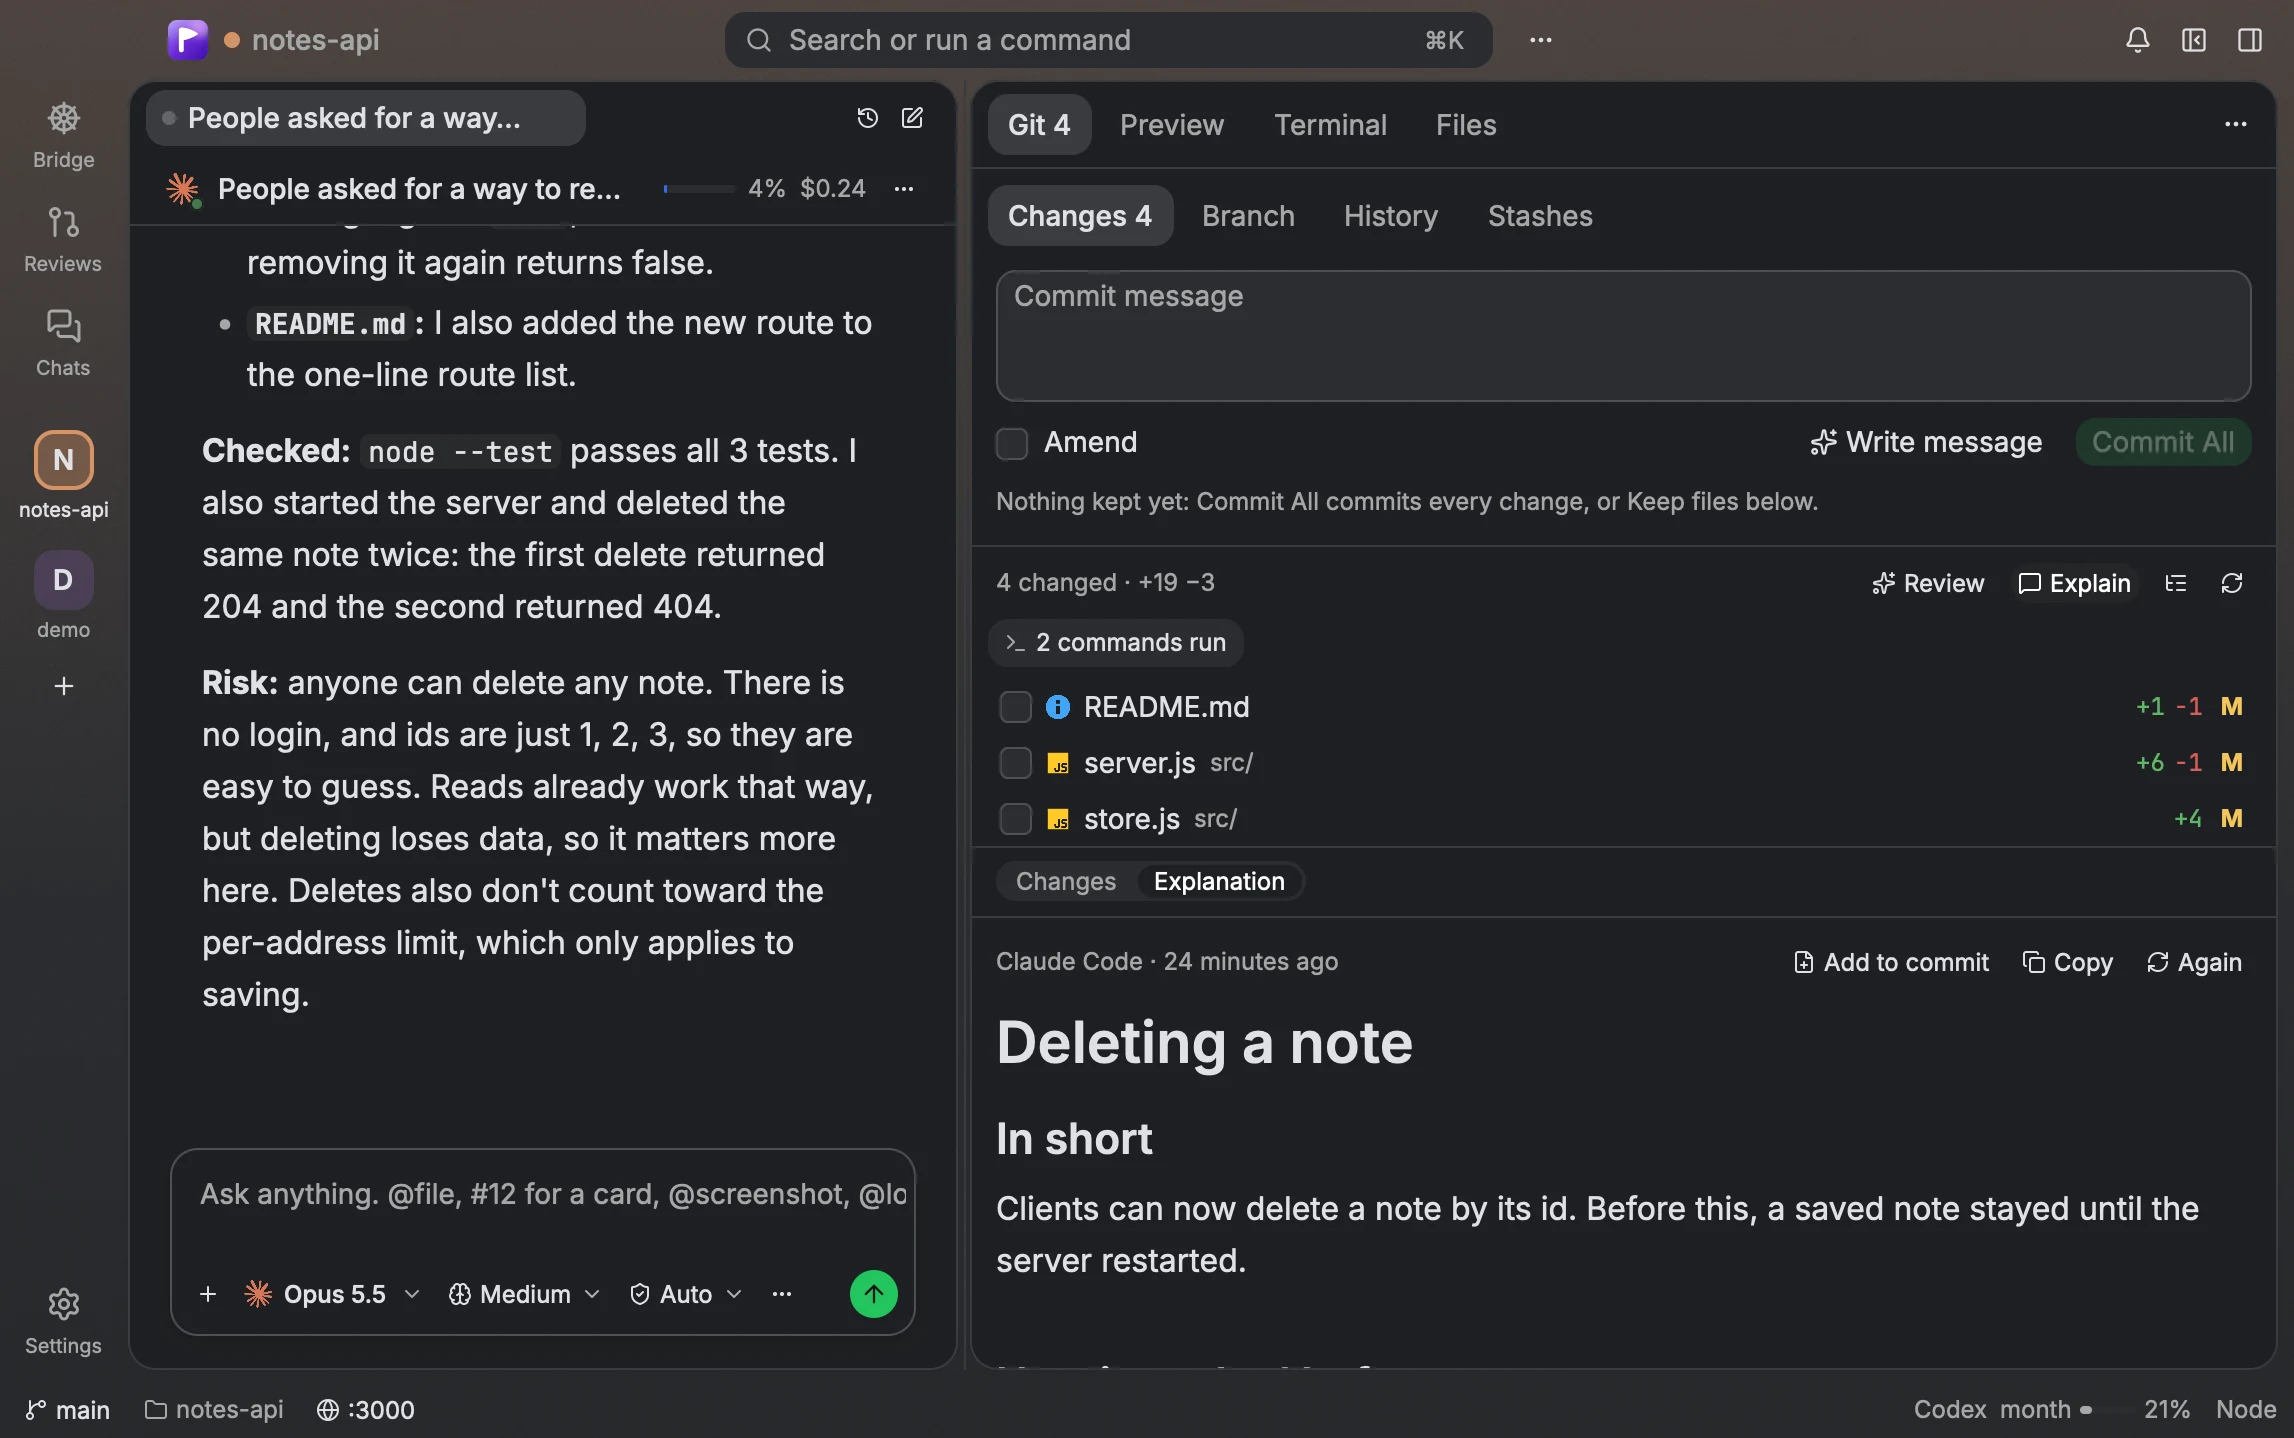
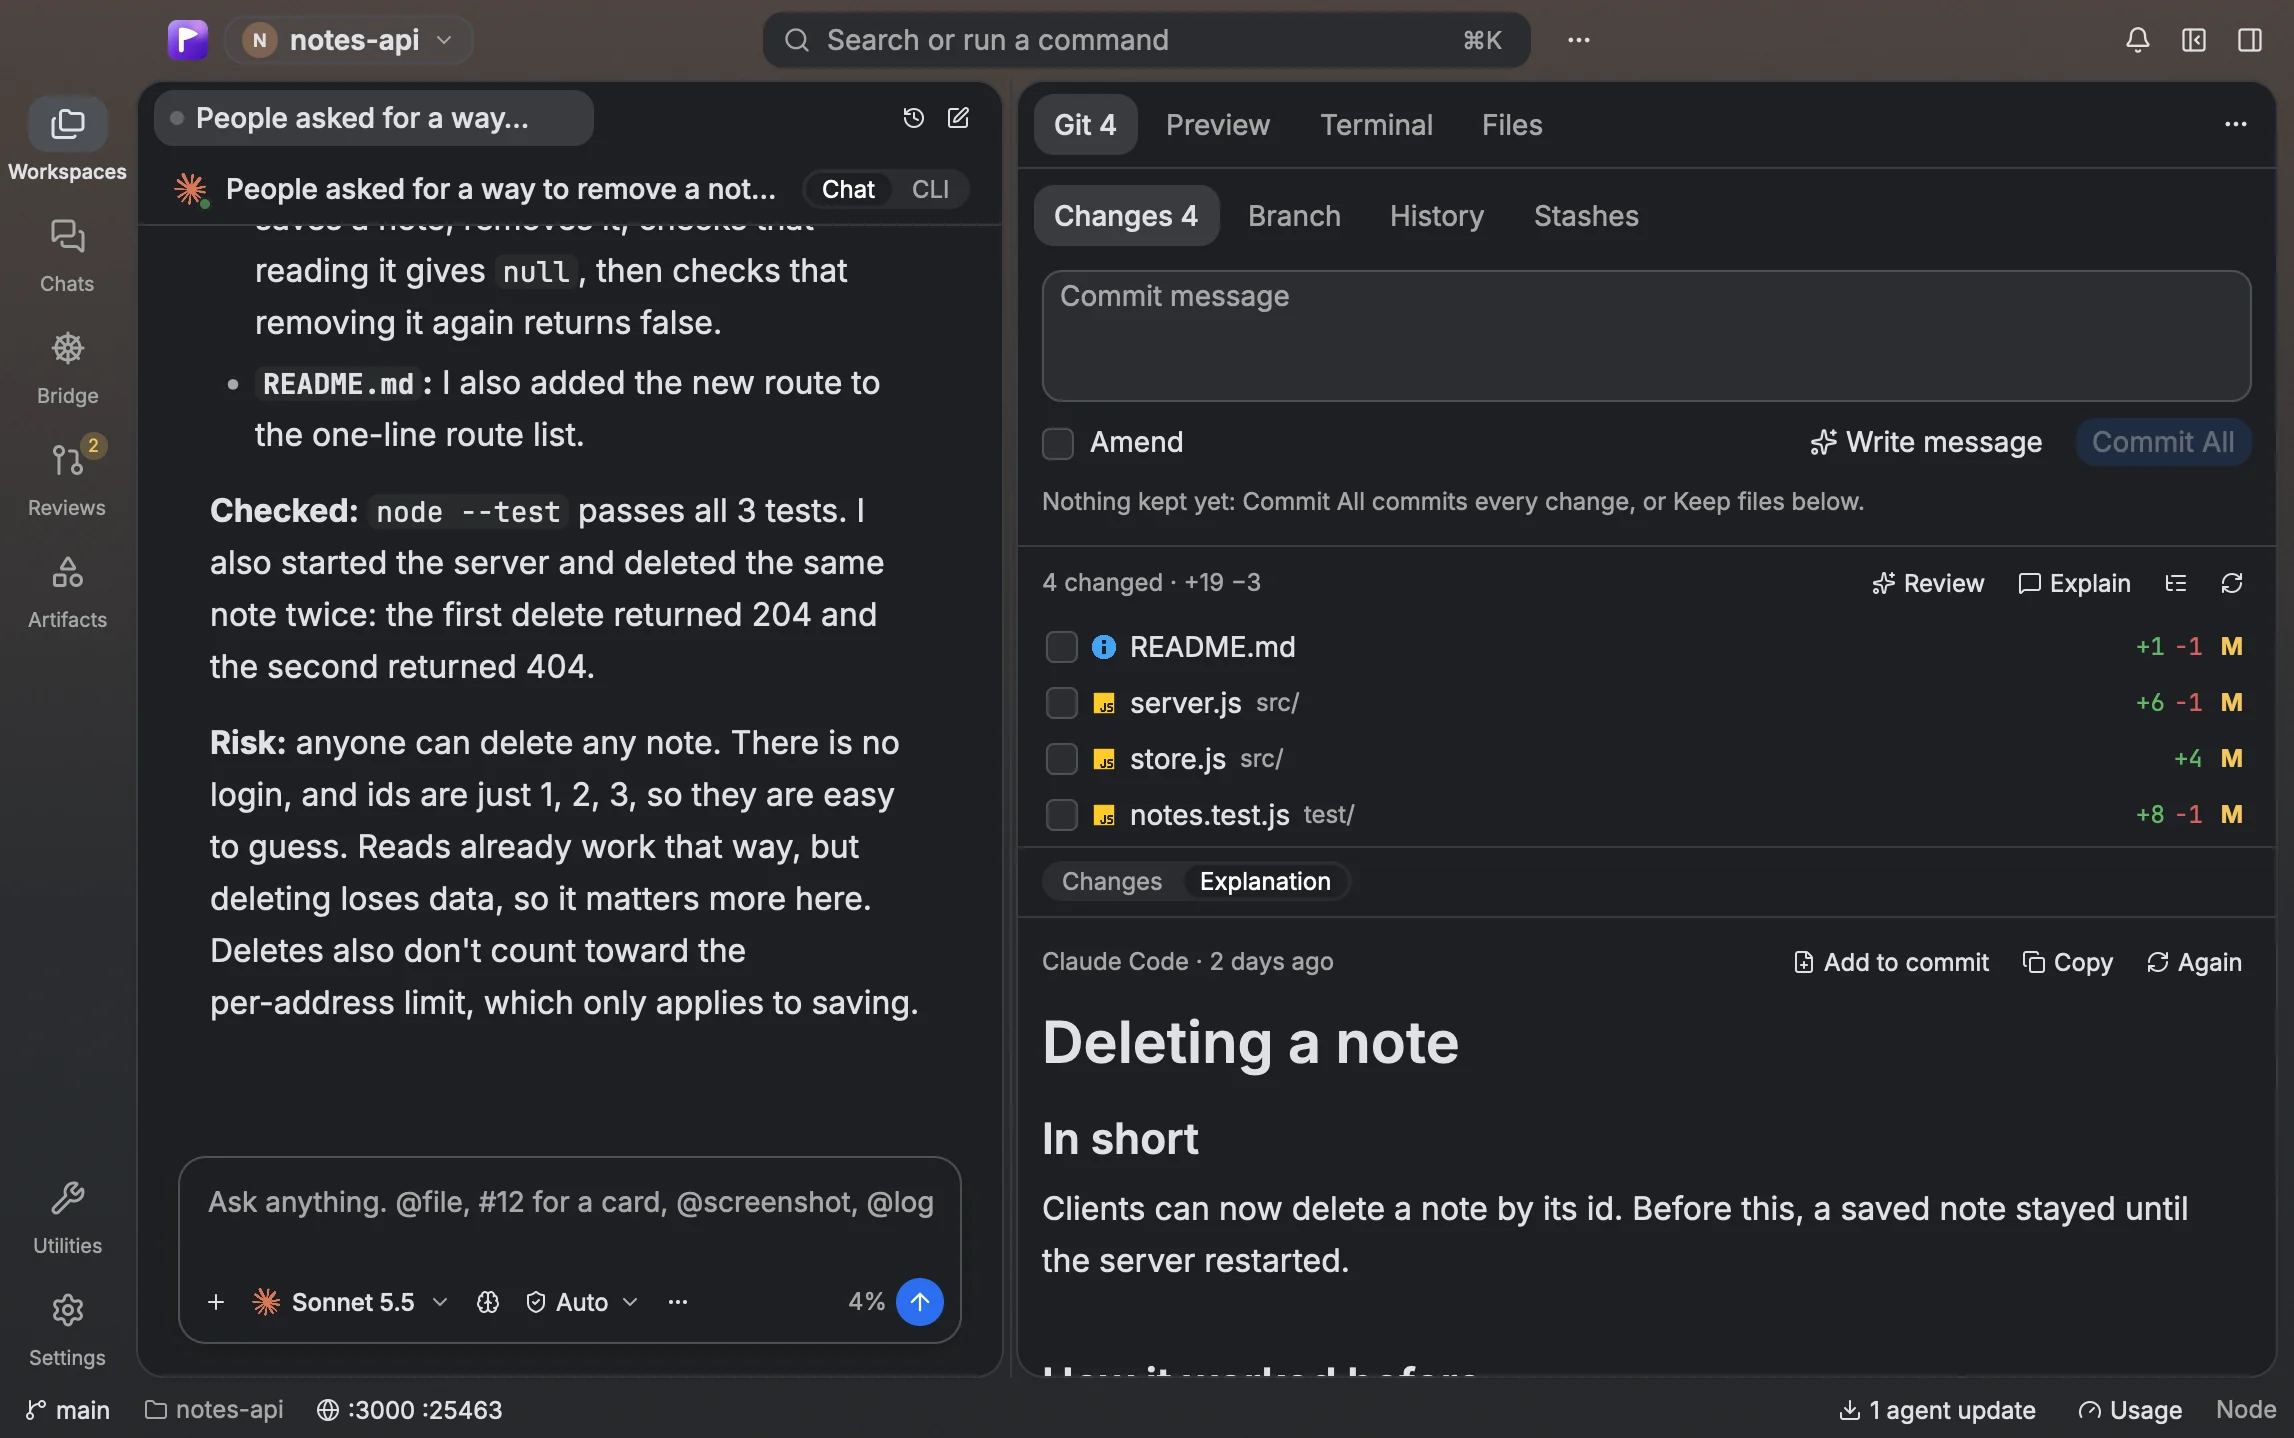
README and website: the app as it is in 0.8.0
README
- The hero picture and the "Why is this here?" picture are taken again
  with the current build: the column of icons (Workspaces, Chats, Bridge,
  Reviews, Artifacts, with Utilities and Settings at its foot), the search
  in the middle of the title bar, usage as one item in the status bar.
  The same scene as before (the notes project, the same chat and
  explanation).
- The section about download mirrors is gone.
- Quick start says the first start shows the welcome tour.

Website
- The drawing of the app at the top has the column of icons as the app
  has it now (it listed Bridge, Reviews, Chats and the workspaces by
  letter).
- Three new tiles under Features: Slides (a deck with its strip of slides
  and what it is exported as), Artifacts (a small app, shared) and
  Utilities. The Studio tile is about pictures and video, with
  compressing a recording.

diff --git a/site/styles.css b/site/styles.css
@@ -479,6 +479,34 @@ main > section { position: relative; padding: clamp(72px, 13vh, 124px) var(--pad
 @keyframes boxed { 0%, 12% { box-shadow: none; } 22%, 90% { box-shadow: 0 0 0 2px var(--accent); } 100% { box-shadow: none; } }
 .mini-shot .draw { position: absolute; right: 10px; top: 22px; width: 62px; height: 2px; background: var(--accent); transform-origin: right center; transform: rotate(-28deg) scaleX(0); animation: draw 6s infinite; }
 .mini-shot .draw::after { content: ""; position: absolute; left: -1px; top: -4px; border: 5px solid transparent; border-right-color: var(--accent); border-left: 0; }
+/* Slides: the strip of slides (each in front in turn), the one shown with its chart, and what it is exported as. */
+.mini-deck { width: min(100%, 330px); display: grid; grid-template-columns: 44px minmax(0, 1fr); gap: 10px; }
+.mini-deck .strip { display: grid; gap: 6px; align-content: start; }
+.mini-deck .strip i { display: block; height: 28px; border-radius: 5px; border: 1.5px solid var(--line-2); background: rgba(255, 255, 255, 0.03); animation: deck-turn 9s infinite; }
+.mini-deck .strip i:nth-child(2) { animation-delay: 3s; } .mini-deck .strip i:nth-child(3) { animation-delay: 6s; }
+.mini-deck .stage { position: relative; display: grid; gap: 10px; align-content: start; min-height: 108px; padding: 12px; border: 1px solid var(--line-2); border-radius: 10px; background: linear-gradient(135deg, var(--accent-soft), rgba(255, 255, 255, 0.03)); }
+.mini-deck .chart, .mini-app .chart { display: flex; align-items: flex-end; gap: 6px; height: 44px; }
+.mini-deck .chart { width: 46%; }
+.mini-deck .chart i, .mini-app .chart i { flex: 1; border-radius: 3px 3px 0 0; background: var(--accent); opacity: 0.8; animation: bars 6s infinite; }
+.mini-deck .chart i:nth-child(1), .mini-app .chart i:nth-child(1) { --a: 25%; --b: 45%; } .mini-deck .chart i:nth-child(2), .mini-app .chart i:nth-child(2) { --a: 40%; --b: 60%; }
+.mini-deck .chart i:nth-child(3), .mini-app .chart i:nth-child(3) { --a: 35%; --b: 75%; } .mini-deck .chart i:nth-child(4), .mini-app .chart i:nth-child(4) { --a: 60%; --b: 85%; }
+.mini-deck .chart i:nth-child(5) { --a: 70%; --b: 100%; }
+.mini-deck .out { position: absolute; right: 9px; bottom: 9px; display: flex; gap: 5px; }
+@keyframes deck-turn { 0%, 30% { border-color: var(--accent); background: var(--accent-soft); } 34%, 100% { border-color: var(--line-2); background: rgba(255, 255, 255, 0.03); } }
+/* An artifact: a small app in a window of its own, in use by others. */
+.mini-app { position: relative; width: min(100%, 200px); border: 1px solid var(--line-2); border-radius: 10px; overflow: hidden; background: rgba(255, 255, 255, 0.03); }
+.mini-app .addr { display: block; padding: 7px 9px; border-bottom: 1px solid var(--line); }
+.mini-app .body { display: grid; grid-template-columns: auto minmax(0, 1fr); gap: 12px; align-items: end; padding: 12px 10px 10px; }
+.mini-app .num { font: 600 18px/1 var(--sans); }
+.mini-app .live { position: absolute; top: 5px; right: 6px; display: inline-flex; align-items: center; gap: 4px; padding: 1px 7px; border-radius: 999px; background: color-mix(in srgb, var(--green) 20%, transparent); color: var(--green); font-size: 10px; font-weight: 600; }
+.mini-app .live i { width: 6px; height: 6px; border-radius: 50%; background: var(--green); animation: live 2.4s infinite; }
+@keyframes live { 0%, 100% { opacity: 1; } 50% { opacity: 0.3; } }
+/* Utilities: the tools by name, one in use after another. */
+.mini-tools { display: flex; flex-wrap: wrap; justify-content: center; gap: 6px; max-width: 190px; }
+.mini-tools span { padding: 3px 9px; border-radius: 7px; background: var(--fill); font: 600 10.5px var(--mono); animation: tool 9s infinite; }
+.mini-tools span:nth-child(2) { animation-delay: 1.5s; } .mini-tools span:nth-child(3) { animation-delay: 3s; } .mini-tools span:nth-child(4) { animation-delay: 4.5s; }
+.mini-tools span:nth-child(5) { animation-delay: 6s; } .mini-tools span:nth-child(6) { animation-delay: 7.5s; }
+@keyframes tool { 0%, 14% { background: var(--accent); color: var(--accent-ink); } 18%, 100% { background: var(--fill); color: inherit; } }
 @keyframes draw { 0%, 16% { transform: rotate(-28deg) scaleX(0); } 28%, 90% { transform: rotate(-28deg) scaleX(1); } 100% { transform: rotate(-28deg) scaleX(0); } }
 
 /* Make it yours: the page takes the colour. */
@@ -590,13 +618,9 @@ em.add { color: var(--green); } em.del { color: var(--red); }
 /* The app's window: the column of icons, the chat, the result pane. */
 .app { display: grid; grid-template-columns: 66px minmax(0, 1fr) minmax(0, 1.15fr); min-height: 380px; }
 .rail { display: flex; flex-direction: column; align-items: center; gap: 4px; padding: 10px 4px; background: rgba(255, 255, 255, 0.03); border-right: 1px solid var(--line); }
-.rail hr { width: 22px; border: none; border-top: 1px solid var(--line-2); margin: 4px 0; }
 .r { position: relative; display: grid; justify-items: center; gap: 3px; width: 56px; padding: 6px 0; border-radius: 8px; font-size: 9.5px; color: var(--muted); }
 .r .ico { font-size: 16px; }
 .r.on { background: var(--fill); color: var(--ink); }
-.badge { display: grid; place-items: center; width: 24px; height: 24px; border-radius: 7px; font-size: 11px; font-weight: 650; }
-.badge.b1 { background: rgba(240, 111, 168, 0.3); outline: 1.5px solid #f06fa8; }
-.badge.b2 { background: rgba(142, 203, 255, 0.26); }
 .count { position: absolute; top: 2px; right: 6px; min-width: 15px; padding: 0 3px; border-radius: 999px; background: var(--amber); color: #2a1a00; font-size: 9px; font-weight: 700; text-align: center; }
 .chat { display: flex; flex-direction: column; min-width: 0; border-right: 1px solid var(--line); }
 .tabs { display: flex; gap: 6px; padding: 8px 10px; border-bottom: 1px solid var(--line); overflow: hidden; }
@@ -707,6 +731,9 @@ em.add { color: var(--green); } em.del { color: var(--red); }
   .mini-findings .tick.a, .mini-findings .tick.b { background: var(--accent); border-color: var(--accent); }
   .mini-shot .draw { transform: rotate(-28deg); }
   .mini-night li { opacity: 1; }
+  .mini-deck .strip i:first-child { border-color: var(--accent); background: var(--accent-soft); }
+  .mini-tools span:nth-child(2) { background: var(--accent); color: var(--accent-ink); }
+  .mini-deck .chart i, .mini-app .chart i { height: var(--b); }
 }
 @media (max-width: 1000px) {
   main > section { padding-block: 84px; }

diff --git a/site/index.html b/site/index.html
@@ -34,6 +34,7 @@
     <symbol id="i-undo" viewBox="0 0 24 24"><path d="M8 5 4 9l4 4"/><path d="M4 9h10a5 5 0 0 1 0 10h-3"/></symbol>
     <symbol id="i-moon" viewBox="0 0 24 24"><path d="M19.5 14.5A8 8 0 0 1 9.5 4.5a8 8 0 1 0 10 10z"/></symbol>
     <symbol id="i-server" viewBox="0 0 24 24"><rect x="3.5" y="4" width="17" height="7" rx="1.5"/><rect x="3.5" y="13" width="17" height="7" rx="1.5"/><path d="M7 7.5h.01M7 16.5h.01"/></symbol>
+    <symbol id="i-shapes" viewBox="0 0 24 24"><path d="M12 3.5l4 6.5H8z"/><rect x="4" y="13.5" width="6.5" height="6.5" rx="1"/><circle cx="17" cy="16.75" r="3.25"/></symbol>
     <symbol id="i-folder" viewBox="0 0 24 24"><path d="M3 7a1.5 1.5 0 0 1 1.5-1.5h4l2 2.5h9A1.5 1.5 0 0 1 21 9.5v8A1.5 1.5 0 0 1 19.5 19h-15A1.5 1.5 0 0 1 3 17.5z"/></symbol>
   </svg>
 
@@ -89,12 +90,11 @@
             <div class="win-bar"><i></i><i></i><i></i><span class="win-title">tidewatch</span><span class="win-search"><svg class="ico"><use href="#i-search"/></svg>Search or run a command</span></div>
             <div class="app">
               <div class="rail">
+                <span class="r on"><svg class="ico"><use href="#i-folder"/></svg>Workspaces</span>
+                <span class="r"><svg class="ico"><use href="#i-chats"/></svg>Chats</span>
                 <span class="r"><svg class="ico"><use href="#i-wheel"/></svg>Bridge<b class="count" data-d="count">1</b></span>
                 <span class="r"><svg class="ico"><use href="#i-pr"/></svg>Reviews</span>
-                <span class="r"><svg class="ico"><use href="#i-chats"/></svg>Chats</span>
-                <hr>
-                <span class="r on"><b class="badge b1">T</b>tidewatch</span>
-                <span class="r"><b class="badge b2">R</b>receipts</span>
+                <span class="r"><svg class="ico"><use href="#i-shapes"/></svg>Artifacts</span>
               </div>
               <div class="chat">
                 <div class="tabs"><span class="tab on"><i class="dot" data-demo="tabdot"></i>Offline tide chart</span><span class="tab"><i class="dot blue"></i>Units in the table</span></div>
@@ -495,7 +495,32 @@
           <div class="art" aria-hidden="true">
             <div class="mini-shot"><i class="bar w50"></i><span class="secret">ana@example.com</span><i class="box"></i><i class="draw"></i></div>
           </div>
-          <h3>Pictures, video, slides</h3><p>Mark up, cut, present. Same window.</p>
+          <h3>Pictures and video</h3><p>Mark up a screenshot. Cut and compress a recording. Or ask the agent to.</p>
+        </li>
+        <li class="tile wide t-slides">
+          <div class="art" aria-hidden="true">
+            <div class="mini-deck">
+              <div class="strip"><i></i><i></i><i></i></div>
+              <div class="stage">
+                <i class="bar w50"></i>
+                <div class="chart"><i></i><i></i><i></i><i></i><i></i></div>
+                <div class="out"><span class="wbtn">PowerPoint</span><span class="wbtn">PDF</span></div>
+              </div>
+            </div>
+          </div>
+          <h3>Slides, made beside a chat</h3><p>Ask for a deck. Change it by hand or by asking. Export PowerPoint or PDF.</p>
+        </li>
+        <li class="tile t-artifact">
+          <div class="art" aria-hidden="true">
+            <div class="mini-app"><span class="addr"><i class="bar w50"></i></span><div class="body"><b class="num">1,284</b><div class="chart"><i></i><i></i><i></i><i></i></div></div><span class="live"><i></i>Shared</span></div>
+          </div>
+          <h3>Small apps that stay</h3><p>A dashboard, a planner, a game. Kept here, shared on your network.</p>
+        </li>
+        <li class="tile t-utils">
+          <div class="art" aria-hidden="true">
+            <div class="mini-tools"><span>JSON</span><span>JWT</span><span>Base64</span><span>Regex</span><span>Hash</span><span>Cron</span></div>
+          </div>
+          <h3>Everyday tools, offline</h3><p>JSON, JWT, Base64, regex, hashes and more.</p>
         </li>
         <li class="tile full t-paint">
           <div class="cap"><h3>Make it yours</h3><p>Eight themes and an accent. Or describe one to an agent.</p></div>

diff --git a/README.md b/README.md
@@ -123,12 +123,6 @@ Get the newest version from [**Releases**](https://github.com/LibreGuild/PilotHo
 | Any Linux (x86-64) | `PilotHouse-Linux-x86_64.AppImage` | `chmod +x`, then run |
 | Any Linux (x86-64) | `PilotHouse-Linux-x86_64.tar.gz` | Unpack and run |
 
-### Mirrors
-The newest release, with `SHA256SUMS` beside the files:
-
-- `https://libreguild.skatech.org/pilothouse/latest/<file>`
-- `https://pub-6c540d377bd4404f87ff33fb14c18c21.r2.dev/pilothouse/latest/<file>`
-
 ### First launch
 The builds are not code-signed yet. On **macOS**, the first open is blocked: open System Settings → Privacy & Security → **Open Anyway**, or run `xattr -dr com.apple.quarantine /Applications/PilotHouse.app`. On **Windows**, if SmartScreen appears, choose **More info → Run anyway**.
 
@@ -139,7 +133,7 @@ PilotHouse works with the agent CLIs you install and sign in to yourself: `claud
 
 ## Quick start
 
-1. **Open PilotHouse.** It starts in a chat that needs no folder. To work on code, open a folder (<kbd>⌘</kbd>/<kbd>Ctrl</kbd> <kbd>O</kbd>): it becomes a workspace.
+1. **Open PilotHouse.** The first start shows a short welcome tour of what it has (*Settings → About* shows it again). Then it starts in a chat that needs no folder. To work on code, open a folder (<kbd>⌘</kbd>/<kbd>Ctrl</kbd> <kbd>O</kbd>): it becomes a workspace.
 2. **Pick an agent and ask.** The model button in the composer lists the agents and their models. Type what you want and press <kbd>Enter</kbd>; point at things with `@`.
 3. **Answer when it asks.** The agent asks before it runs a command or edits files, in the chat and on its card on the Bridge.
 4. **Review, understand, commit.** The Git tab shows what changed. Keep or undo any part, press **Explain** to have it told in plain words, then commit.
